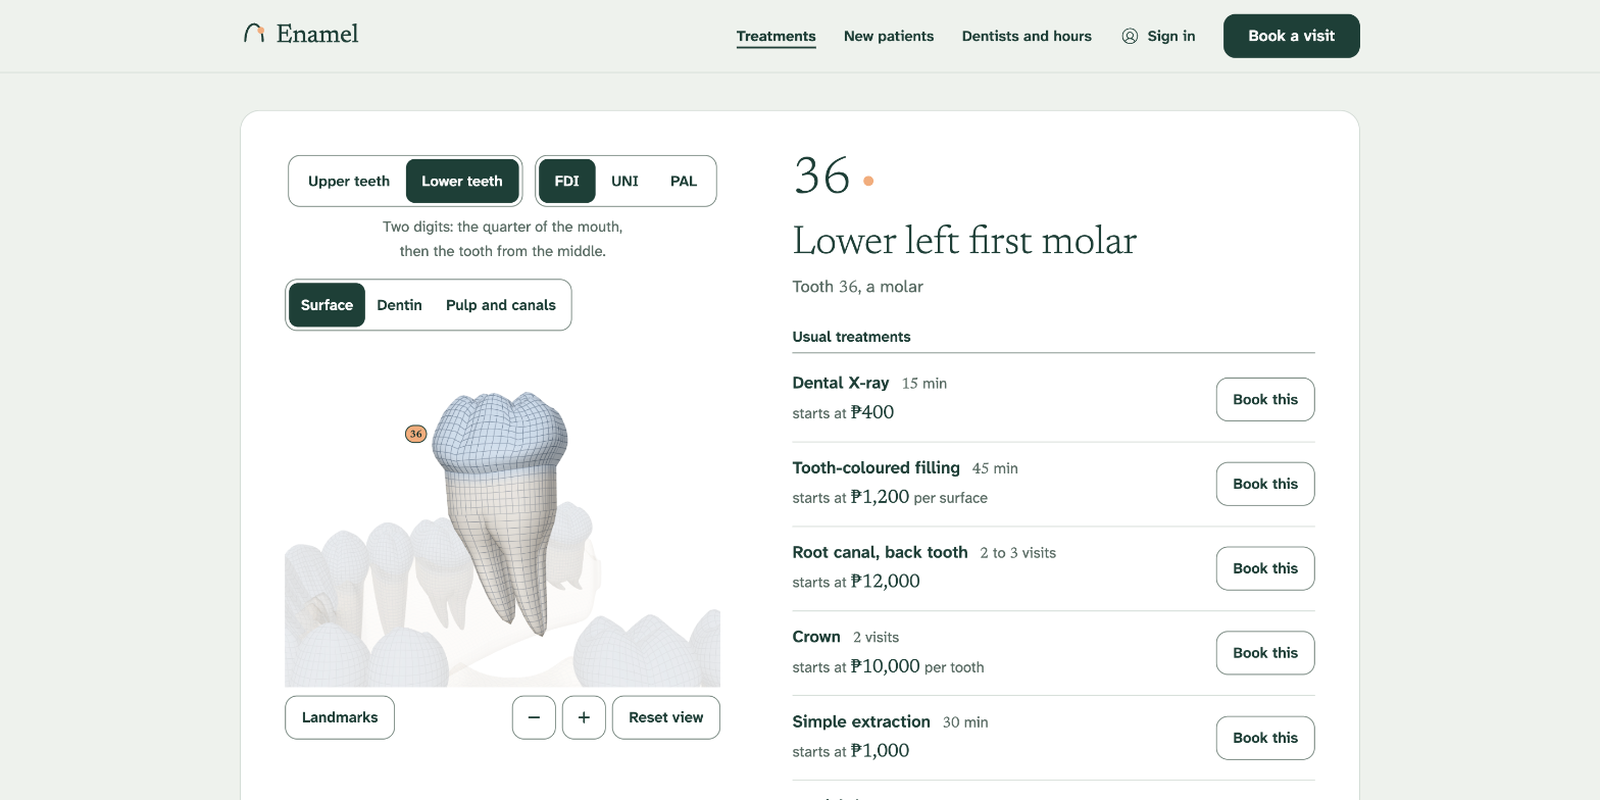
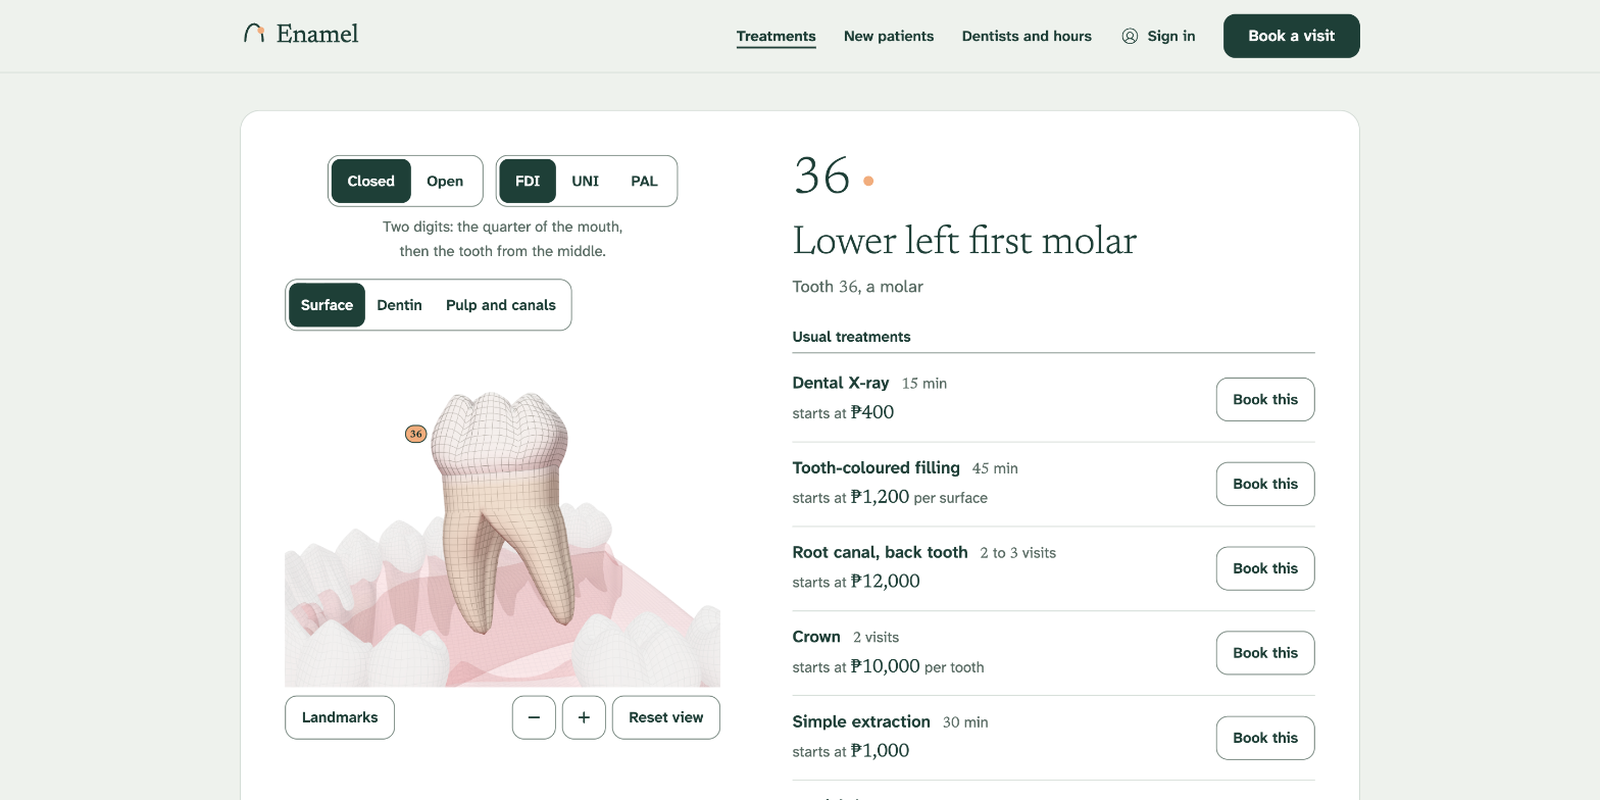
minor: Refresh the screenshots, thumbnail and README for the current 3D tooth chart

Changed region(s): [[0.1875, 0.4688, 0.4375, 0.875], [0.1875, 0.1875, 0.4375, 0.2812]]

diff --git a/README.md b/README.md
@@ -7,7 +7,7 @@ clinic could put its prices, its HMO paperwork and its booking on a few calm pag
 ![The 3D tooth chart on a desktop: the lower left first molar lifted out of the gum to show its roots, beside its usual treatments and starting prices.](docs/screenshots/desktop.png)
 
 <p>
-  <img src="docs/screenshots/phone-teeth.png" width="150" alt="The 3D tooth chart on a phone: the lower teeth seen from the front, with their roots showing through the gum.">
+  <img src="docs/screenshots/phone-teeth.png" width="150" alt="The 3D tooth chart on a phone with the mouth open: the numbered upper and lower teeth in a pink gum, the lower arch curving back to the molars.">
   <img src="docs/screenshots/phone-booking.png" width="150" alt="A booking confirmed on a phone, with the six-month reminder preview.">
 </p>
 
@@ -30,14 +30,16 @@ clinic could put its prices, its HMO paperwork and its booking on a few calm pag
 
 - Read the price list: 16 treatments in six groups, each with a starting price, how long it takes, how many visits,
   what's included and how HMO plans usually treat it. Filter by group and open any row.
-- Pick a tooth on a 3D model of all 32 adult teeth, seen from the front with the roots showing through the gum. Drag to
-  turn it all the way round and pinch, Ctrl or ⌘ and scroll, or use the buttons to zoom. Tap or click a tooth to see
-  its usual treatments with their prices, and a close-up: the tooth lifts out of its socket and you can look inside at
-  the dentin, the pulp and each canal, or name its cusps, grooves, ridges and root tips. Short notes say how many roots
-  and canals it usually has and when it comes in. Numbers show in FDI, Universal or Palmer. The model faces you the
-  way a dentist sees it, so your right side is on the left, and it loads only when you scroll near it. It works with
-  a mouse, a finger or the keyboard; where 3D can't run (or without JavaScript), the flat chart of the same teeth takes
-  its place, and on a phone there's a plain list of teeth as an alternative.
+- Pick a tooth on a 3D model of all 32 adult teeth: both arches biting, seen from the front, with the roots showing
+  faintly through a pink gum. Closed and Open part the jaws to show the inside of the mouth, with the roof over the
+  upper teeth and the floor inside the lower ones. Drag to turn it (up to 80° each way, so it never ends up back to
+  front); pinch, Ctrl or ⌘ and scroll, or use the buttons to zoom; slide two fingers or Shift and drag to move it. Tap
+  or click a tooth to see its usual treatments with their prices, and a close-up: the tooth lifts out of its socket and
+  you can look inside at the dentin, the pulp and each canal, or name its cusps, grooves, ridges and root tips. Short
+  notes say how many roots and canals it usually has and when it comes in. Numbers show in FDI, Universal or Palmer.
+  The model faces you the way a dentist sees it, so your right side is on the left, and it loads only when you scroll
+  near it. It works with a mouse, a finger or the keyboard; where 3D can't run (or without JavaScript), the flat chart
+  of the same teeth takes its place, and on a phone there's a plain list of teeth as an alternative.
 - Press "Book this" on any treatment to open the booking with it already chosen (`/enamel/book/?service=filling`).
 - Book in four steps (five for braces): treatment, day, time, then the patient's name and an optional HMO. General
   treatments are booked with "any general dentist": a time is free when either chair is, and confirming gives it to the
